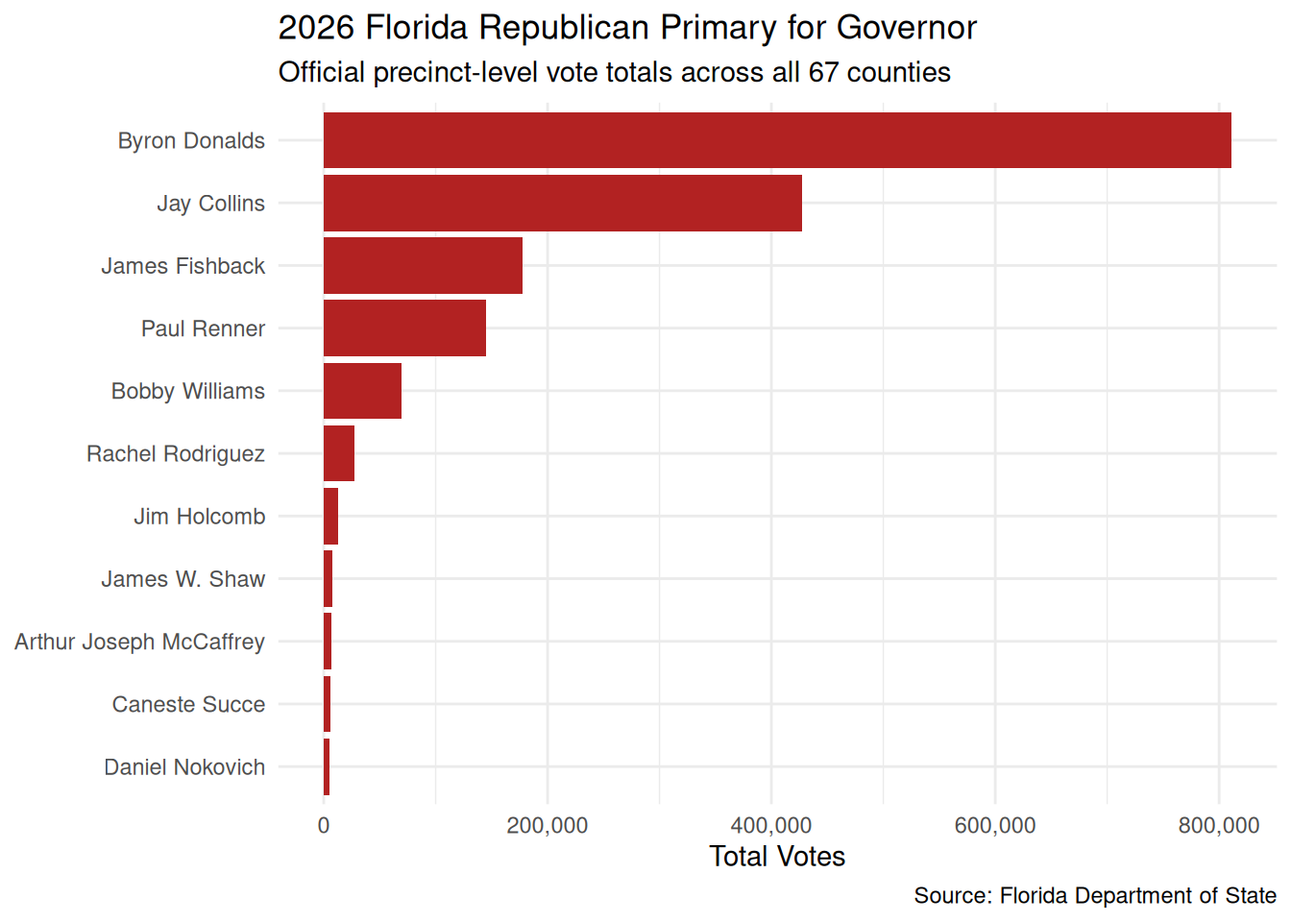
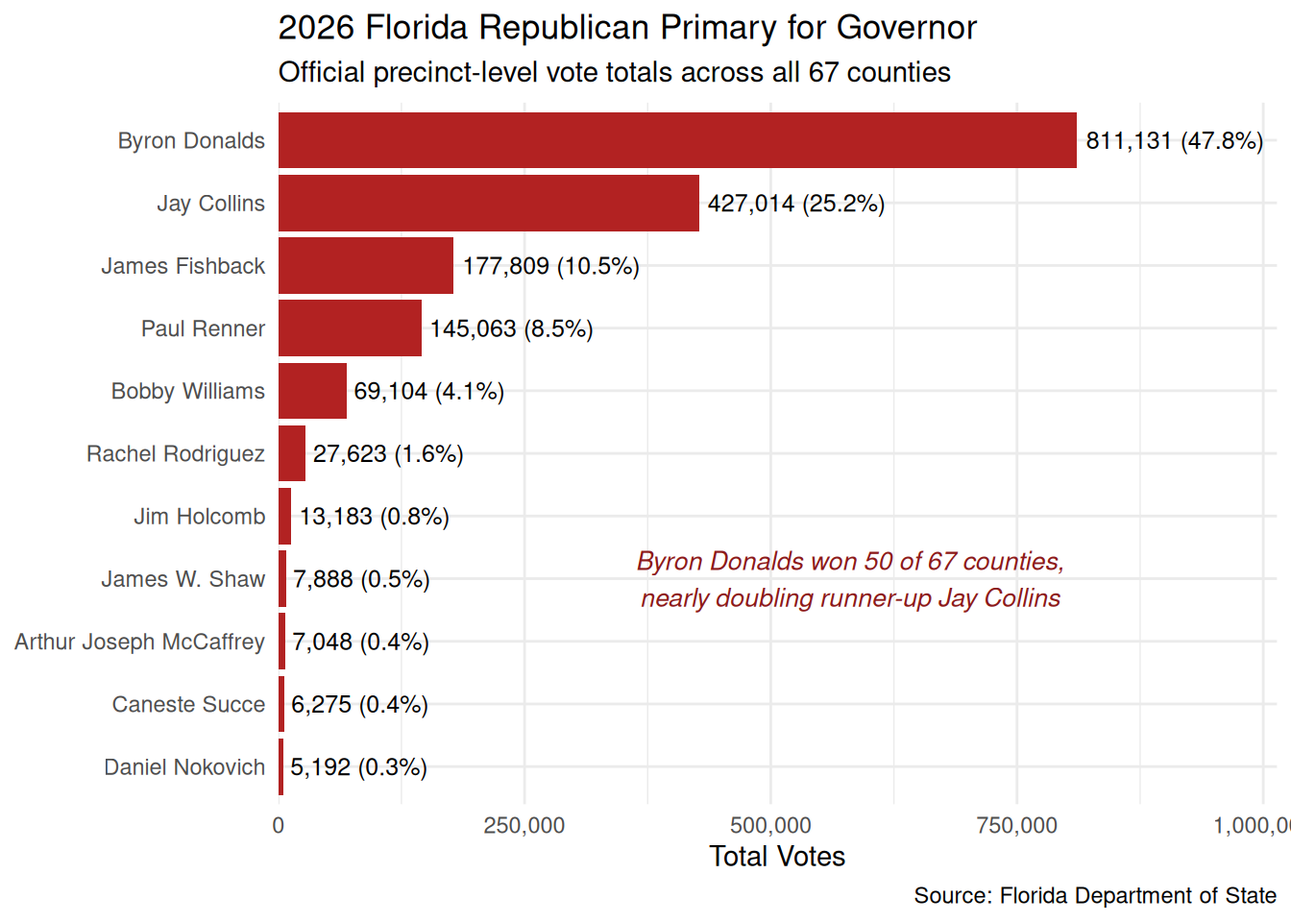
Built site for gh-pages

diff --git a/analysis.html b/analysis.html
@@ -111,30 +111,53 @@ pre > code.sourceCode > span > a:first-child::before { text-decoration: underlin
 <span id="cb1-4"><a href="#cb1-4" aria-hidden="true" tabindex="-1"></a><span class="co"># Read all 67 county tab-separated files (which have no header row)</span></span>
 <span id="cb1-5"><a href="#cb1-5" aria-hidden="true" tabindex="-1"></a>files <span class="ot">&lt;-</span> <span class="fu">list.files</span>(<span class="st">"data"</span>, <span class="at">pattern =</span> <span class="st">"</span><span class="sc">\\</span><span class="st">.txt$"</span>, <span class="at">full.names =</span> <span class="cn">TRUE</span>)</span>
 <span id="cb1-6"><a href="#cb1-6" aria-hidden="true" tabindex="-1"></a></span>
-<span id="cb1-7"><a href="#cb1-7" aria-hidden="true" tabindex="-1"></a>gov_rep <span class="ot">&lt;-</span> <span class="fu">read_tsv</span>(</span>
+<span id="cb1-7"><a href="#cb1-7" aria-hidden="true" tabindex="-1"></a>raw_gov_rep <span class="ot">&lt;-</span> <span class="fu">read_tsv</span>(</span>
 <span id="cb1-8"><a href="#cb1-8" aria-hidden="true" tabindex="-1"></a>  files,</span>
 <span id="cb1-9"><a href="#cb1-9" aria-hidden="true" tabindex="-1"></a>  <span class="at">col_names =</span> <span class="cn">FALSE</span>,</span>
 <span id="cb1-10"><a href="#cb1-10" aria-hidden="true" tabindex="-1"></a>  <span class="at">quote =</span> <span class="st">""</span>,</span>
-<span id="cb1-11"><a href="#cb1-11" aria-hidden="true" tabindex="-1"></a>  <span class="at">col_select =</span> <span class="fu">c</span>(<span class="at">office =</span> X12, <span class="at">candidate =</span> X15, <span class="at">party =</span> X16, <span class="at">votes =</span> X19),</span>
+<span id="cb1-11"><a href="#cb1-11" aria-hidden="true" tabindex="-1"></a>  <span class="at">col_select =</span> <span class="fu">c</span>(<span class="at">county =</span> X2, <span class="at">office =</span> X12, <span class="at">candidate =</span> X15, <span class="at">party =</span> X16, <span class="at">votes =</span> X19),</span>
 <span id="cb1-12"><a href="#cb1-12" aria-hidden="true" tabindex="-1"></a>  <span class="at">show_col_types =</span> <span class="cn">FALSE</span></span>
 <span id="cb1-13"><a href="#cb1-13" aria-hidden="true" tabindex="-1"></a>) <span class="sc">|&gt;</span></span>
 <span id="cb1-14"><a href="#cb1-14" aria-hidden="true" tabindex="-1"></a>  <span class="co"># Keep only Republican candidates in the Governor primary</span></span>
 <span id="cb1-15"><a href="#cb1-15" aria-hidden="true" tabindex="-1"></a>  <span class="fu">filter</span>(office <span class="sc">==</span> <span class="st">"Governor"</span>, party <span class="sc">==</span> <span class="st">"REP"</span>) <span class="sc">|&gt;</span></span>
-<span id="cb1-16"><a href="#cb1-16" aria-hidden="true" tabindex="-1"></a>  <span class="co"># Sum total votes across all precincts and counties for each candidate</span></span>
-<span id="cb1-17"><a href="#cb1-17" aria-hidden="true" tabindex="-1"></a>  <span class="fu">summarize</span>(<span class="at">total_votes =</span> <span class="fu">sum</span>(<span class="fu">as.numeric</span>(votes), <span class="at">na.rm =</span> <span class="cn">TRUE</span>), <span class="at">.by =</span> candidate)</span>
-<span id="cb1-18"><a href="#cb1-18" aria-hidden="true" tabindex="-1"></a></span>
-<span id="cb1-19"><a href="#cb1-19" aria-hidden="true" tabindex="-1"></a><span class="co"># Plot candidate vote totals ordered from highest to lowest</span></span>
-<span id="cb1-20"><a href="#cb1-20" aria-hidden="true" tabindex="-1"></a><span class="fu">ggplot</span>(gov_rep, <span class="fu">aes</span>(<span class="at">x =</span> total_votes, <span class="at">y =</span> <span class="fu">fct_reorder</span>(candidate, total_votes))) <span class="sc">+</span></span>
-<span id="cb1-21"><a href="#cb1-21" aria-hidden="true" tabindex="-1"></a>  <span class="fu">geom_col</span>(<span class="at">fill =</span> <span class="st">"firebrick"</span>) <span class="sc">+</span></span>
-<span id="cb1-22"><a href="#cb1-22" aria-hidden="true" tabindex="-1"></a>  <span class="fu">scale_x_continuous</span>(<span class="at">labels =</span> <span class="fu">label_comma</span>()) <span class="sc">+</span></span>
-<span id="cb1-23"><a href="#cb1-23" aria-hidden="true" tabindex="-1"></a>  <span class="fu">labs</span>(</span>
-<span id="cb1-24"><a href="#cb1-24" aria-hidden="true" tabindex="-1"></a>    <span class="at">title =</span> <span class="st">"2026 Florida Republican Primary for Governor"</span>,</span>
-<span id="cb1-25"><a href="#cb1-25" aria-hidden="true" tabindex="-1"></a>    <span class="at">subtitle =</span> <span class="st">"Official precinct-level vote totals across all 67 counties"</span>,</span>
-<span id="cb1-26"><a href="#cb1-26" aria-hidden="true" tabindex="-1"></a>    <span class="at">x =</span> <span class="st">"Total Votes"</span>,</span>
-<span id="cb1-27"><a href="#cb1-27" aria-hidden="true" tabindex="-1"></a>    <span class="at">y =</span> <span class="cn">NULL</span>,</span>
-<span id="cb1-28"><a href="#cb1-28" aria-hidden="true" tabindex="-1"></a>    <span class="at">caption =</span> <span class="st">"Source: Florida Department of State"</span></span>
-<span id="cb1-29"><a href="#cb1-29" aria-hidden="true" tabindex="-1"></a>  ) <span class="sc">+</span></span>
-<span id="cb1-30"><a href="#cb1-30" aria-hidden="true" tabindex="-1"></a>  <span class="fu">theme_minimal</span>()</span></code></pre></div><button title="Copy to Clipboard" class="code-copy-button"><i class="bi"></i></button></div>
+<span id="cb1-16"><a href="#cb1-16" aria-hidden="true" tabindex="-1"></a>  <span class="fu">mutate</span>(<span class="at">votes =</span> <span class="fu">as.numeric</span>(votes))</span>
+<span id="cb1-17"><a href="#cb1-17" aria-hidden="true" tabindex="-1"></a></span>
+<span id="cb1-18"><a href="#cb1-18" aria-hidden="true" tabindex="-1"></a><span class="co"># Sum total votes across all counties for each candidate</span></span>
+<span id="cb1-19"><a href="#cb1-19" aria-hidden="true" tabindex="-1"></a>gov_rep <span class="ot">&lt;-</span> raw_gov_rep <span class="sc">|&gt;</span></span>
+<span id="cb1-20"><a href="#cb1-20" aria-hidden="true" tabindex="-1"></a>  <span class="fu">summarize</span>(<span class="at">total_votes =</span> <span class="fu">sum</span>(votes, <span class="at">na.rm =</span> <span class="cn">TRUE</span>), <span class="at">.by =</span> candidate) <span class="sc">|&gt;</span></span>
+<span id="cb1-21"><a href="#cb1-21" aria-hidden="true" tabindex="-1"></a>  <span class="fu">mutate</span>(<span class="at">pct =</span> total_votes <span class="sc">/</span> <span class="fu">sum</span>(total_votes))</span>
+<span id="cb1-22"><a href="#cb1-22" aria-hidden="true" tabindex="-1"></a></span>
+<span id="cb1-23"><a href="#cb1-23" aria-hidden="true" tabindex="-1"></a><span class="co"># Plot candidate vote totals with value annotations</span></span>
+<span id="cb1-24"><a href="#cb1-24" aria-hidden="true" tabindex="-1"></a><span class="fu">ggplot</span>(gov_rep, <span class="fu">aes</span>(<span class="at">x =</span> total_votes, <span class="at">y =</span> <span class="fu">fct_reorder</span>(candidate, total_votes))) <span class="sc">+</span></span>
+<span id="cb1-25"><a href="#cb1-25" aria-hidden="true" tabindex="-1"></a>  <span class="fu">geom_col</span>(<span class="at">fill =</span> <span class="st">"firebrick"</span>) <span class="sc">+</span></span>
+<span id="cb1-26"><a href="#cb1-26" aria-hidden="true" tabindex="-1"></a>  <span class="co"># Add vote total and percentage labels to the right of each bar</span></span>
+<span id="cb1-27"><a href="#cb1-27" aria-hidden="true" tabindex="-1"></a>  <span class="fu">geom_text</span>(</span>
+<span id="cb1-28"><a href="#cb1-28" aria-hidden="true" tabindex="-1"></a>    <span class="fu">aes</span>(<span class="at">label =</span> <span class="fu">paste0</span>(<span class="fu">comma</span>(total_votes), <span class="st">" ("</span>, <span class="fu">percent</span>(pct, <span class="at">accuracy =</span> <span class="fl">0.1</span>), <span class="st">")"</span>)),</span>
+<span id="cb1-29"><a href="#cb1-29" aria-hidden="true" tabindex="-1"></a>    <span class="at">hjust =</span> <span class="sc">-</span><span class="fl">0.05</span>,</span>
+<span id="cb1-30"><a href="#cb1-30" aria-hidden="true" tabindex="-1"></a>    <span class="at">size =</span> <span class="fl">3.3</span></span>
+<span id="cb1-31"><a href="#cb1-31" aria-hidden="true" tabindex="-1"></a>  ) <span class="sc">+</span></span>
+<span id="cb1-32"><a href="#cb1-32" aria-hidden="true" tabindex="-1"></a>  <span class="co"># Call out the primary winner's margin</span></span>
+<span id="cb1-33"><a href="#cb1-33" aria-hidden="true" tabindex="-1"></a>  <span class="fu">annotate</span>(</span>
+<span id="cb1-34"><a href="#cb1-34" aria-hidden="true" tabindex="-1"></a>    <span class="st">"text"</span>,</span>
+<span id="cb1-35"><a href="#cb1-35" aria-hidden="true" tabindex="-1"></a>    <span class="at">x =</span> <span class="dv">580000</span>,</span>
+<span id="cb1-36"><a href="#cb1-36" aria-hidden="true" tabindex="-1"></a>    <span class="at">y =</span> <span class="dv">4</span>,</span>
+<span id="cb1-37"><a href="#cb1-37" aria-hidden="true" tabindex="-1"></a>    <span class="at">label =</span> <span class="st">"Byron Donalds won 50 of 67 counties,</span><span class="sc">\n</span><span class="st">nearly doubling runner-up Jay Collins"</span>,</span>
+<span id="cb1-38"><a href="#cb1-38" aria-hidden="true" tabindex="-1"></a>    <span class="at">color =</span> <span class="st">"firebrick4"</span>,</span>
+<span id="cb1-39"><a href="#cb1-39" aria-hidden="true" tabindex="-1"></a>    <span class="at">fontface =</span> <span class="st">"italic"</span>,</span>
+<span id="cb1-40"><a href="#cb1-40" aria-hidden="true" tabindex="-1"></a>    <span class="at">size =</span> <span class="fl">3.5</span></span>
+<span id="cb1-41"><a href="#cb1-41" aria-hidden="true" tabindex="-1"></a>  ) <span class="sc">+</span></span>
+<span id="cb1-42"><a href="#cb1-42" aria-hidden="true" tabindex="-1"></a>  <span class="fu">scale_x_continuous</span>(</span>
+<span id="cb1-43"><a href="#cb1-43" aria-hidden="true" tabindex="-1"></a>    <span class="at">labels =</span> <span class="fu">label_comma</span>(),</span>
+<span id="cb1-44"><a href="#cb1-44" aria-hidden="true" tabindex="-1"></a>    <span class="at">expand =</span> <span class="fu">expansion</span>(<span class="at">mult =</span> <span class="fu">c</span>(<span class="dv">0</span>, <span class="fl">0.25</span>))</span>
+<span id="cb1-45"><a href="#cb1-45" aria-hidden="true" tabindex="-1"></a>  ) <span class="sc">+</span></span>
+<span id="cb1-46"><a href="#cb1-46" aria-hidden="true" tabindex="-1"></a>  <span class="fu">labs</span>(</span>
+<span id="cb1-47"><a href="#cb1-47" aria-hidden="true" tabindex="-1"></a>    <span class="at">title =</span> <span class="st">"2026 Florida Republican Primary for Governor"</span>,</span>
+<span id="cb1-48"><a href="#cb1-48" aria-hidden="true" tabindex="-1"></a>    <span class="at">subtitle =</span> <span class="st">"Official precinct-level vote totals across all 67 counties"</span>,</span>
+<span id="cb1-49"><a href="#cb1-49" aria-hidden="true" tabindex="-1"></a>    <span class="at">x =</span> <span class="st">"Total Votes"</span>,</span>
+<span id="cb1-50"><a href="#cb1-50" aria-hidden="true" tabindex="-1"></a>    <span class="at">y =</span> <span class="cn">NULL</span>,</span>
+<span id="cb1-51"><a href="#cb1-51" aria-hidden="true" tabindex="-1"></a>    <span class="at">caption =</span> <span class="st">"Source: Florida Department of State"</span></span>
+<span id="cb1-52"><a href="#cb1-52" aria-hidden="true" tabindex="-1"></a>  ) <span class="sc">+</span></span>
+<span id="cb1-53"><a href="#cb1-53" aria-hidden="true" tabindex="-1"></a>  <span class="fu">theme_minimal</span>()</span></code></pre></div><button title="Copy to Clipboard" class="code-copy-button"><i class="bi"></i></button></div>
 <div class="cell-output-display">
 <div>
 <figure class="figure">
@@ -143,6 +166,54 @@ pre > code.sourceCode > span > a:first-child::before { text-decoration: underlin
 </div>
 </div>
 </div>
+<section id="county-heat-map" class="level2">
+<h2 class="anchored" data-anchor-id="county-heat-map">County Heat Map</h2>
+<div class="cell">
+<div class="code-copy-outer-scaffold"><div class="sourceCode cell-code" id="cb2"><pre class="sourceCode r code-with-copy"><code class="sourceCode r"><span id="cb2-1"><a href="#cb2-1" aria-hidden="true" tabindex="-1"></a><span class="co"># Calculate Byron Donalds's vote share in each county and match map_data names</span></span>
+<span id="cb2-2"><a href="#cb2-2" aria-hidden="true" tabindex="-1"></a>county_shares <span class="ot">&lt;-</span> raw_gov_rep <span class="sc">|&gt;</span></span>
+<span id="cb2-3"><a href="#cb2-3" aria-hidden="true" tabindex="-1"></a>  <span class="fu">summarize</span>(<span class="at">votes =</span> <span class="fu">sum</span>(votes, <span class="at">na.rm =</span> <span class="cn">TRUE</span>), <span class="at">.by =</span> <span class="fu">c</span>(county, candidate)) <span class="sc">|&gt;</span></span>
+<span id="cb2-4"><a href="#cb2-4" aria-hidden="true" tabindex="-1"></a>  <span class="fu">mutate</span>(<span class="at">vote_share =</span> votes <span class="sc">/</span> <span class="fu">sum</span>(votes), <span class="at">.by =</span> county) <span class="sc">|&gt;</span></span>
+<span id="cb2-5"><a href="#cb2-5" aria-hidden="true" tabindex="-1"></a>  <span class="fu">filter</span>(candidate <span class="sc">==</span> <span class="st">"Byron Donalds"</span>) <span class="sc">|&gt;</span></span>
+<span id="cb2-6"><a href="#cb2-6" aria-hidden="true" tabindex="-1"></a>  <span class="fu">mutate</span>(</span>
+<span id="cb2-7"><a href="#cb2-7" aria-hidden="true" tabindex="-1"></a>    <span class="at">subregion =</span> <span class="fu">tolower</span>(county),</span>
+<span id="cb2-8"><a href="#cb2-8" aria-hidden="true" tabindex="-1"></a>    <span class="at">subregion =</span> <span class="fu">case_match</span>(</span>
+<span id="cb2-9"><a href="#cb2-9" aria-hidden="true" tabindex="-1"></a>      subregion,</span>
+<span id="cb2-10"><a href="#cb2-10" aria-hidden="true" tabindex="-1"></a>      <span class="st">"desoto"</span> <span class="sc">~</span> <span class="st">"de soto"</span>,</span>
+<span id="cb2-11"><a href="#cb2-11" aria-hidden="true" tabindex="-1"></a>      <span class="st">"st. johns"</span> <span class="sc">~</span> <span class="st">"st johns"</span>,</span>
+<span id="cb2-12"><a href="#cb2-12" aria-hidden="true" tabindex="-1"></a>      <span class="st">"st. lucie"</span> <span class="sc">~</span> <span class="st">"st lucie"</span>,</span>
+<span id="cb2-13"><a href="#cb2-13" aria-hidden="true" tabindex="-1"></a>      <span class="at">.default =</span> subregion</span>
+<span id="cb2-14"><a href="#cb2-14" aria-hidden="true" tabindex="-1"></a>    )</span>
+<span id="cb2-15"><a href="#cb2-15" aria-hidden="true" tabindex="-1"></a>  )</span>
+<span id="cb2-16"><a href="#cb2-16" aria-hidden="true" tabindex="-1"></a></span>
+<span id="cb2-17"><a href="#cb2-17" aria-hidden="true" tabindex="-1"></a><span class="co"># Join county election results with Florida county polygon coordinates</span></span>
+<span id="cb2-18"><a href="#cb2-18" aria-hidden="true" tabindex="-1"></a>fl_map <span class="ot">&lt;-</span> <span class="fu">map_data</span>(<span class="st">"county"</span>, <span class="st">"florida"</span>) <span class="sc">|&gt;</span></span>
+<span id="cb2-19"><a href="#cb2-19" aria-hidden="true" tabindex="-1"></a>  <span class="fu">left_join</span>(county_shares, <span class="at">by =</span> <span class="st">"subregion"</span>)</span>
+<span id="cb2-20"><a href="#cb2-20" aria-hidden="true" tabindex="-1"></a></span>
+<span id="cb2-21"><a href="#cb2-21" aria-hidden="true" tabindex="-1"></a><span class="co"># Plot a county heat map of vote share</span></span>
+<span id="cb2-22"><a href="#cb2-22" aria-hidden="true" tabindex="-1"></a><span class="fu">ggplot</span>(fl_map, <span class="fu">aes</span>(<span class="at">x =</span> long, <span class="at">y =</span> lat, <span class="at">group =</span> group, <span class="at">fill =</span> vote_share)) <span class="sc">+</span></span>
+<span id="cb2-23"><a href="#cb2-23" aria-hidden="true" tabindex="-1"></a>  <span class="fu">geom_polygon</span>(<span class="at">color =</span> <span class="st">"white"</span>, <span class="at">linewidth =</span> <span class="fl">0.2</span>) <span class="sc">+</span></span>
+<span id="cb2-24"><a href="#cb2-24" aria-hidden="true" tabindex="-1"></a>  <span class="fu">coord_quickmap</span>() <span class="sc">+</span></span>
+<span id="cb2-25"><a href="#cb2-25" aria-hidden="true" tabindex="-1"></a>  <span class="fu">scale_fill_distiller</span>(</span>
+<span id="cb2-26"><a href="#cb2-26" aria-hidden="true" tabindex="-1"></a>    <span class="at">palette =</span> <span class="st">"Reds"</span>,</span>
+<span id="cb2-27"><a href="#cb2-27" aria-hidden="true" tabindex="-1"></a>    <span class="at">direction =</span> <span class="dv">1</span>,</span>
+<span id="cb2-28"><a href="#cb2-28" aria-hidden="true" tabindex="-1"></a>    <span class="at">labels =</span> <span class="fu">label_percent</span>(<span class="at">accuracy =</span> <span class="dv">1</span>),</span>
+<span id="cb2-29"><a href="#cb2-29" aria-hidden="true" tabindex="-1"></a>    <span class="at">name =</span> <span class="st">"Donalds</span><span class="sc">\n</span><span class="st">Vote Share"</span></span>
+<span id="cb2-30"><a href="#cb2-30" aria-hidden="true" tabindex="-1"></a>  ) <span class="sc">+</span></span>
+<span id="cb2-31"><a href="#cb2-31" aria-hidden="true" tabindex="-1"></a>  <span class="fu">labs</span>(</span>
+<span id="cb2-32"><a href="#cb2-32" aria-hidden="true" tabindex="-1"></a>    <span class="at">title =</span> <span class="st">"Republican Primary Vote Share by County (2026)"</span>,</span>
+<span id="cb2-33"><a href="#cb2-33" aria-hidden="true" tabindex="-1"></a>    <span class="at">subtitle =</span> <span class="st">"Share of Republican gubernatorial primary votes cast for winner Byron Donalds"</span>,</span>
+<span id="cb2-34"><a href="#cb2-34" aria-hidden="true" tabindex="-1"></a>    <span class="at">caption =</span> <span class="st">"Source: Florida Department of State"</span></span>
+<span id="cb2-35"><a href="#cb2-35" aria-hidden="true" tabindex="-1"></a>  ) <span class="sc">+</span></span>
+<span id="cb2-36"><a href="#cb2-36" aria-hidden="true" tabindex="-1"></a>  <span class="fu">theme_void</span>()</span></code></pre></div><button title="Copy to Clipboard" class="code-copy-button"><i class="bi"></i></button></div>
+<div class="cell-output-display">
+<div>
+<figure class="figure">
+<p><img src="analysis_files/figure-html/unnamed-chunk-2-1.png" class="img-fluid figure-img" width="672"></p>
+</figure>
+</div>
+</div>
+</div>
+</section>
 
 </main>
 <!-- /main column -->

diff --git a/index.html b/index.html
@@ -111,30 +111,53 @@ pre > code.sourceCode > span > a:first-child::before { text-decoration: underlin
 <span id="cb1-4"><a href="#cb1-4" aria-hidden="true" tabindex="-1"></a><span class="co"># Read all 67 county tab-separated files (which have no header row)</span></span>
 <span id="cb1-5"><a href="#cb1-5" aria-hidden="true" tabindex="-1"></a>files <span class="ot">&lt;-</span> <span class="fu">list.files</span>(<span class="st">"data"</span>, <span class="at">pattern =</span> <span class="st">"</span><span class="sc">\\</span><span class="st">.txt$"</span>, <span class="at">full.names =</span> <span class="cn">TRUE</span>)</span>
 <span id="cb1-6"><a href="#cb1-6" aria-hidden="true" tabindex="-1"></a></span>
-<span id="cb1-7"><a href="#cb1-7" aria-hidden="true" tabindex="-1"></a>gov_rep <span class="ot">&lt;-</span> <span class="fu">read_tsv</span>(</span>
+<span id="cb1-7"><a href="#cb1-7" aria-hidden="true" tabindex="-1"></a>raw_gov_rep <span class="ot">&lt;-</span> <span class="fu">read_tsv</span>(</span>
 <span id="cb1-8"><a href="#cb1-8" aria-hidden="true" tabindex="-1"></a>  files,</span>
 <span id="cb1-9"><a href="#cb1-9" aria-hidden="true" tabindex="-1"></a>  <span class="at">col_names =</span> <span class="cn">FALSE</span>,</span>
 <span id="cb1-10"><a href="#cb1-10" aria-hidden="true" tabindex="-1"></a>  <span class="at">quote =</span> <span class="st">""</span>,</span>
-<span id="cb1-11"><a href="#cb1-11" aria-hidden="true" tabindex="-1"></a>  <span class="at">col_select =</span> <span class="fu">c</span>(<span class="at">office =</span> X12, <span class="at">candidate =</span> X15, <span class="at">party =</span> X16, <span class="at">votes =</span> X19),</span>
+<span id="cb1-11"><a href="#cb1-11" aria-hidden="true" tabindex="-1"></a>  <span class="at">col_select =</span> <span class="fu">c</span>(<span class="at">county =</span> X2, <span class="at">office =</span> X12, <span class="at">candidate =</span> X15, <span class="at">party =</span> X16, <span class="at">votes =</span> X19),</span>
 <span id="cb1-12"><a href="#cb1-12" aria-hidden="true" tabindex="-1"></a>  <span class="at">show_col_types =</span> <span class="cn">FALSE</span></span>
 <span id="cb1-13"><a href="#cb1-13" aria-hidden="true" tabindex="-1"></a>) <span class="sc">|&gt;</span></span>
 <span id="cb1-14"><a href="#cb1-14" aria-hidden="true" tabindex="-1"></a>  <span class="co"># Keep only Republican candidates in the Governor primary</span></span>
 <span id="cb1-15"><a href="#cb1-15" aria-hidden="true" tabindex="-1"></a>  <span class="fu">filter</span>(office <span class="sc">==</span> <span class="st">"Governor"</span>, party <span class="sc">==</span> <span class="st">"REP"</span>) <span class="sc">|&gt;</span></span>
-<span id="cb1-16"><a href="#cb1-16" aria-hidden="true" tabindex="-1"></a>  <span class="co"># Sum total votes across all precincts and counties for each candidate</span></span>
-<span id="cb1-17"><a href="#cb1-17" aria-hidden="true" tabindex="-1"></a>  <span class="fu">summarize</span>(<span class="at">total_votes =</span> <span class="fu">sum</span>(<span class="fu">as.numeric</span>(votes), <span class="at">na.rm =</span> <span class="cn">TRUE</span>), <span class="at">.by =</span> candidate)</span>
-<span id="cb1-18"><a href="#cb1-18" aria-hidden="true" tabindex="-1"></a></span>
-<span id="cb1-19"><a href="#cb1-19" aria-hidden="true" tabindex="-1"></a><span class="co"># Plot candidate vote totals ordered from highest to lowest</span></span>
-<span id="cb1-20"><a href="#cb1-20" aria-hidden="true" tabindex="-1"></a><span class="fu">ggplot</span>(gov_rep, <span class="fu">aes</span>(<span class="at">x =</span> total_votes, <span class="at">y =</span> <span class="fu">fct_reorder</span>(candidate, total_votes))) <span class="sc">+</span></span>
-<span id="cb1-21"><a href="#cb1-21" aria-hidden="true" tabindex="-1"></a>  <span class="fu">geom_col</span>(<span class="at">fill =</span> <span class="st">"firebrick"</span>) <span class="sc">+</span></span>
-<span id="cb1-22"><a href="#cb1-22" aria-hidden="true" tabindex="-1"></a>  <span class="fu">scale_x_continuous</span>(<span class="at">labels =</span> <span class="fu">label_comma</span>()) <span class="sc">+</span></span>
-<span id="cb1-23"><a href="#cb1-23" aria-hidden="true" tabindex="-1"></a>  <span class="fu">labs</span>(</span>
-<span id="cb1-24"><a href="#cb1-24" aria-hidden="true" tabindex="-1"></a>    <span class="at">title =</span> <span class="st">"2026 Florida Republican Primary for Governor"</span>,</span>
-<span id="cb1-25"><a href="#cb1-25" aria-hidden="true" tabindex="-1"></a>    <span class="at">subtitle =</span> <span class="st">"Official precinct-level vote totals across all 67 counties"</span>,</span>
-<span id="cb1-26"><a href="#cb1-26" aria-hidden="true" tabindex="-1"></a>    <span class="at">x =</span> <span class="st">"Total Votes"</span>,</span>
-<span id="cb1-27"><a href="#cb1-27" aria-hidden="true" tabindex="-1"></a>    <span class="at">y =</span> <span class="cn">NULL</span>,</span>
-<span id="cb1-28"><a href="#cb1-28" aria-hidden="true" tabindex="-1"></a>    <span class="at">caption =</span> <span class="st">"Source: Florida Department of State"</span></span>
-<span id="cb1-29"><a href="#cb1-29" aria-hidden="true" tabindex="-1"></a>  ) <span class="sc">+</span></span>
-<span id="cb1-30"><a href="#cb1-30" aria-hidden="true" tabindex="-1"></a>  <span class="fu">theme_minimal</span>()</span></code></pre></div><button title="Copy to Clipboard" class="code-copy-button"><i class="bi"></i></button></div>
+<span id="cb1-16"><a href="#cb1-16" aria-hidden="true" tabindex="-1"></a>  <span class="fu">mutate</span>(<span class="at">votes =</span> <span class="fu">as.numeric</span>(votes))</span>
+<span id="cb1-17"><a href="#cb1-17" aria-hidden="true" tabindex="-1"></a></span>
+<span id="cb1-18"><a href="#cb1-18" aria-hidden="true" tabindex="-1"></a><span class="co"># Sum total votes across all counties for each candidate</span></span>
+<span id="cb1-19"><a href="#cb1-19" aria-hidden="true" tabindex="-1"></a>gov_rep <span class="ot">&lt;-</span> raw_gov_rep <span class="sc">|&gt;</span></span>
+<span id="cb1-20"><a href="#cb1-20" aria-hidden="true" tabindex="-1"></a>  <span class="fu">summarize</span>(<span class="at">total_votes =</span> <span class="fu">sum</span>(votes, <span class="at">na.rm =</span> <span class="cn">TRUE</span>), <span class="at">.by =</span> candidate) <span class="sc">|&gt;</span></span>
+<span id="cb1-21"><a href="#cb1-21" aria-hidden="true" tabindex="-1"></a>  <span class="fu">mutate</span>(<span class="at">pct =</span> total_votes <span class="sc">/</span> <span class="fu">sum</span>(total_votes))</span>
+<span id="cb1-22"><a href="#cb1-22" aria-hidden="true" tabindex="-1"></a></span>
+<span id="cb1-23"><a href="#cb1-23" aria-hidden="true" tabindex="-1"></a><span class="co"># Plot candidate vote totals with value annotations</span></span>
+<span id="cb1-24"><a href="#cb1-24" aria-hidden="true" tabindex="-1"></a><span class="fu">ggplot</span>(gov_rep, <span class="fu">aes</span>(<span class="at">x =</span> total_votes, <span class="at">y =</span> <span class="fu">fct_reorder</span>(candidate, total_votes))) <span class="sc">+</span></span>
+<span id="cb1-25"><a href="#cb1-25" aria-hidden="true" tabindex="-1"></a>  <span class="fu">geom_col</span>(<span class="at">fill =</span> <span class="st">"firebrick"</span>) <span class="sc">+</span></span>
+<span id="cb1-26"><a href="#cb1-26" aria-hidden="true" tabindex="-1"></a>  <span class="co"># Add vote total and percentage labels to the right of each bar</span></span>
+<span id="cb1-27"><a href="#cb1-27" aria-hidden="true" tabindex="-1"></a>  <span class="fu">geom_text</span>(</span>
+<span id="cb1-28"><a href="#cb1-28" aria-hidden="true" tabindex="-1"></a>    <span class="fu">aes</span>(<span class="at">label =</span> <span class="fu">paste0</span>(<span class="fu">comma</span>(total_votes), <span class="st">" ("</span>, <span class="fu">percent</span>(pct, <span class="at">accuracy =</span> <span class="fl">0.1</span>), <span class="st">")"</span>)),</span>
+<span id="cb1-29"><a href="#cb1-29" aria-hidden="true" tabindex="-1"></a>    <span class="at">hjust =</span> <span class="sc">-</span><span class="fl">0.05</span>,</span>
+<span id="cb1-30"><a href="#cb1-30" aria-hidden="true" tabindex="-1"></a>    <span class="at">size =</span> <span class="fl">3.3</span></span>
+<span id="cb1-31"><a href="#cb1-31" aria-hidden="true" tabindex="-1"></a>  ) <span class="sc">+</span></span>
+<span id="cb1-32"><a href="#cb1-32" aria-hidden="true" tabindex="-1"></a>  <span class="co"># Call out the primary winner's margin</span></span>
+<span id="cb1-33"><a href="#cb1-33" aria-hidden="true" tabindex="-1"></a>  <span class="fu">annotate</span>(</span>
+<span id="cb1-34"><a href="#cb1-34" aria-hidden="true" tabindex="-1"></a>    <span class="st">"text"</span>,</span>
+<span id="cb1-35"><a href="#cb1-35" aria-hidden="true" tabindex="-1"></a>    <span class="at">x =</span> <span class="dv">580000</span>,</span>
+<span id="cb1-36"><a href="#cb1-36" aria-hidden="true" tabindex="-1"></a>    <span class="at">y =</span> <span class="dv">4</span>,</span>
+<span id="cb1-37"><a href="#cb1-37" aria-hidden="true" tabindex="-1"></a>    <span class="at">label =</span> <span class="st">"Byron Donalds won 50 of 67 counties,</span><span class="sc">\n</span><span class="st">nearly doubling runner-up Jay Collins"</span>,</span>
+<span id="cb1-38"><a href="#cb1-38" aria-hidden="true" tabindex="-1"></a>    <span class="at">color =</span> <span class="st">"firebrick4"</span>,</span>
+<span id="cb1-39"><a href="#cb1-39" aria-hidden="true" tabindex="-1"></a>    <span class="at">fontface =</span> <span class="st">"italic"</span>,</span>
+<span id="cb1-40"><a href="#cb1-40" aria-hidden="true" tabindex="-1"></a>    <span class="at">size =</span> <span class="fl">3.5</span></span>
+<span id="cb1-41"><a href="#cb1-41" aria-hidden="true" tabindex="-1"></a>  ) <span class="sc">+</span></span>
+<span id="cb1-42"><a href="#cb1-42" aria-hidden="true" tabindex="-1"></a>  <span class="fu">scale_x_continuous</span>(</span>
+<span id="cb1-43"><a href="#cb1-43" aria-hidden="true" tabindex="-1"></a>    <span class="at">labels =</span> <span class="fu">label_comma</span>(),</span>
+<span id="cb1-44"><a href="#cb1-44" aria-hidden="true" tabindex="-1"></a>    <span class="at">expand =</span> <span class="fu">expansion</span>(<span class="at">mult =</span> <span class="fu">c</span>(<span class="dv">0</span>, <span class="fl">0.25</span>))</span>
+<span id="cb1-45"><a href="#cb1-45" aria-hidden="true" tabindex="-1"></a>  ) <span class="sc">+</span></span>
+<span id="cb1-46"><a href="#cb1-46" aria-hidden="true" tabindex="-1"></a>  <span class="fu">labs</span>(</span>
+<span id="cb1-47"><a href="#cb1-47" aria-hidden="true" tabindex="-1"></a>    <span class="at">title =</span> <span class="st">"2026 Florida Republican Primary for Governor"</span>,</span>
+<span id="cb1-48"><a href="#cb1-48" aria-hidden="true" tabindex="-1"></a>    <span class="at">subtitle =</span> <span class="st">"Official precinct-level vote totals across all 67 counties"</span>,</span>
+<span id="cb1-49"><a href="#cb1-49" aria-hidden="true" tabindex="-1"></a>    <span class="at">x =</span> <span class="st">"Total Votes"</span>,</span>
+<span id="cb1-50"><a href="#cb1-50" aria-hidden="true" tabindex="-1"></a>    <span class="at">y =</span> <span class="cn">NULL</span>,</span>
+<span id="cb1-51"><a href="#cb1-51" aria-hidden="true" tabindex="-1"></a>    <span class="at">caption =</span> <span class="st">"Source: Florida Department of State"</span></span>
+<span id="cb1-52"><a href="#cb1-52" aria-hidden="true" tabindex="-1"></a>  ) <span class="sc">+</span></span>
+<span id="cb1-53"><a href="#cb1-53" aria-hidden="true" tabindex="-1"></a>  <span class="fu">theme_minimal</span>()</span></code></pre></div><button title="Copy to Clipboard" class="code-copy-button"><i class="bi"></i></button></div>
 <div class="cell-output-display">
 <div>
 <figure class="figure">
@@ -143,6 +166,54 @@ pre > code.sourceCode > span > a:first-child::before { text-decoration: underlin
 </div>
 </div>
 </div>
+<section id="county-heat-map" class="level2">
+<h2 class="anchored" data-anchor-id="county-heat-map">County Heat Map</h2>
+<div class="cell">
+<div class="code-copy-outer-scaffold"><div class="sourceCode cell-code" id="cb2"><pre class="sourceCode r code-with-copy"><code class="sourceCode r"><span id="cb2-1"><a href="#cb2-1" aria-hidden="true" tabindex="-1"></a><span class="co"># Calculate Byron Donalds's vote share in each county and match map_data names</span></span>
+<span id="cb2-2"><a href="#cb2-2" aria-hidden="true" tabindex="-1"></a>county_shares <span class="ot">&lt;-</span> raw_gov_rep <span class="sc">|&gt;</span></span>
+<span id="cb2-3"><a href="#cb2-3" aria-hidden="true" tabindex="-1"></a>  <span class="fu">summarize</span>(<span class="at">votes =</span> <span class="fu">sum</span>(votes, <span class="at">na.rm =</span> <span class="cn">TRUE</span>), <span class="at">.by =</span> <span class="fu">c</span>(county, candidate)) <span class="sc">|&gt;</span></span>
+<span id="cb2-4"><a href="#cb2-4" aria-hidden="true" tabindex="-1"></a>  <span class="fu">mutate</span>(<span class="at">vote_share =</span> votes <span class="sc">/</span> <span class="fu">sum</span>(votes), <span class="at">.by =</span> county) <span class="sc">|&gt;</span></span>
+<span id="cb2-5"><a href="#cb2-5" aria-hidden="true" tabindex="-1"></a>  <span class="fu">filter</span>(candidate <span class="sc">==</span> <span class="st">"Byron Donalds"</span>) <span class="sc">|&gt;</span></span>
+<span id="cb2-6"><a href="#cb2-6" aria-hidden="true" tabindex="-1"></a>  <span class="fu">mutate</span>(</span>
+<span id="cb2-7"><a href="#cb2-7" aria-hidden="true" tabindex="-1"></a>    <span class="at">subregion =</span> <span class="fu">tolower</span>(county),</span>
+<span id="cb2-8"><a href="#cb2-8" aria-hidden="true" tabindex="-1"></a>    <span class="at">subregion =</span> <span class="fu">case_match</span>(</span>
+<span id="cb2-9"><a href="#cb2-9" aria-hidden="true" tabindex="-1"></a>      subregion,</span>
+<span id="cb2-10"><a href="#cb2-10" aria-hidden="true" tabindex="-1"></a>      <span class="st">"desoto"</span> <span class="sc">~</span> <span class="st">"de soto"</span>,</span>
+<span id="cb2-11"><a href="#cb2-11" aria-hidden="true" tabindex="-1"></a>      <span class="st">"st. johns"</span> <span class="sc">~</span> <span class="st">"st johns"</span>,</span>
+<span id="cb2-12"><a href="#cb2-12" aria-hidden="true" tabindex="-1"></a>      <span class="st">"st. lucie"</span> <span class="sc">~</span> <span class="st">"st lucie"</span>,</span>
+<span id="cb2-13"><a href="#cb2-13" aria-hidden="true" tabindex="-1"></a>      <span class="at">.default =</span> subregion</span>
+<span id="cb2-14"><a href="#cb2-14" aria-hidden="true" tabindex="-1"></a>    )</span>
+<span id="cb2-15"><a href="#cb2-15" aria-hidden="true" tabindex="-1"></a>  )</span>
+<span id="cb2-16"><a href="#cb2-16" aria-hidden="true" tabindex="-1"></a></span>
+<span id="cb2-17"><a href="#cb2-17" aria-hidden="true" tabindex="-1"></a><span class="co"># Join county election results with Florida county polygon coordinates</span></span>
+<span id="cb2-18"><a href="#cb2-18" aria-hidden="true" tabindex="-1"></a>fl_map <span class="ot">&lt;-</span> <span class="fu">map_data</span>(<span class="st">"county"</span>, <span class="st">"florida"</span>) <span class="sc">|&gt;</span></span>
+<span id="cb2-19"><a href="#cb2-19" aria-hidden="true" tabindex="-1"></a>  <span class="fu">left_join</span>(county_shares, <span class="at">by =</span> <span class="st">"subregion"</span>)</span>
+<span id="cb2-20"><a href="#cb2-20" aria-hidden="true" tabindex="-1"></a></span>
+<span id="cb2-21"><a href="#cb2-21" aria-hidden="true" tabindex="-1"></a><span class="co"># Plot a county heat map of vote share</span></span>
+<span id="cb2-22"><a href="#cb2-22" aria-hidden="true" tabindex="-1"></a><span class="fu">ggplot</span>(fl_map, <span class="fu">aes</span>(<span class="at">x =</span> long, <span class="at">y =</span> lat, <span class="at">group =</span> group, <span class="at">fill =</span> vote_share)) <span class="sc">+</span></span>
+<span id="cb2-23"><a href="#cb2-23" aria-hidden="true" tabindex="-1"></a>  <span class="fu">geom_polygon</span>(<span class="at">color =</span> <span class="st">"white"</span>, <span class="at">linewidth =</span> <span class="fl">0.2</span>) <span class="sc">+</span></span>
+<span id="cb2-24"><a href="#cb2-24" aria-hidden="true" tabindex="-1"></a>  <span class="fu">coord_quickmap</span>() <span class="sc">+</span></span>
+<span id="cb2-25"><a href="#cb2-25" aria-hidden="true" tabindex="-1"></a>  <span class="fu">scale_fill_distiller</span>(</span>
+<span id="cb2-26"><a href="#cb2-26" aria-hidden="true" tabindex="-1"></a>    <span class="at">palette =</span> <span class="st">"Reds"</span>,</span>
+<span id="cb2-27"><a href="#cb2-27" aria-hidden="true" tabindex="-1"></a>    <span class="at">direction =</span> <span class="dv">1</span>,</span>
+<span id="cb2-28"><a href="#cb2-28" aria-hidden="true" tabindex="-1"></a>    <span class="at">labels =</span> <span class="fu">label_percent</span>(<span class="at">accuracy =</span> <span class="dv">1</span>),</span>
+<span id="cb2-29"><a href="#cb2-29" aria-hidden="true" tabindex="-1"></a>    <span class="at">name =</span> <span class="st">"Donalds</span><span class="sc">\n</span><span class="st">Vote Share"</span></span>
+<span id="cb2-30"><a href="#cb2-30" aria-hidden="true" tabindex="-1"></a>  ) <span class="sc">+</span></span>
+<span id="cb2-31"><a href="#cb2-31" aria-hidden="true" tabindex="-1"></a>  <span class="fu">labs</span>(</span>
+<span id="cb2-32"><a href="#cb2-32" aria-hidden="true" tabindex="-1"></a>    <span class="at">title =</span> <span class="st">"Republican Primary Vote Share by County (2026)"</span>,</span>
+<span id="cb2-33"><a href="#cb2-33" aria-hidden="true" tabindex="-1"></a>    <span class="at">subtitle =</span> <span class="st">"Share of Republican gubernatorial primary votes cast for winner Byron Donalds"</span>,</span>
+<span id="cb2-34"><a href="#cb2-34" aria-hidden="true" tabindex="-1"></a>    <span class="at">caption =</span> <span class="st">"Source: Florida Department of State"</span></span>
+<span id="cb2-35"><a href="#cb2-35" aria-hidden="true" tabindex="-1"></a>  ) <span class="sc">+</span></span>
+<span id="cb2-36"><a href="#cb2-36" aria-hidden="true" tabindex="-1"></a>  <span class="fu">theme_void</span>()</span></code></pre></div><button title="Copy to Clipboard" class="code-copy-button"><i class="bi"></i></button></div>
+<div class="cell-output-display">
+<div>
+<figure class="figure">
+<p><img src="analysis_files/figure-html/unnamed-chunk-2-1.png" class="img-fluid figure-img" width="672"></p>
+</figure>
+</div>
+</div>
+</div>
+</section>
 
 </main>
 <!-- /main column -->
